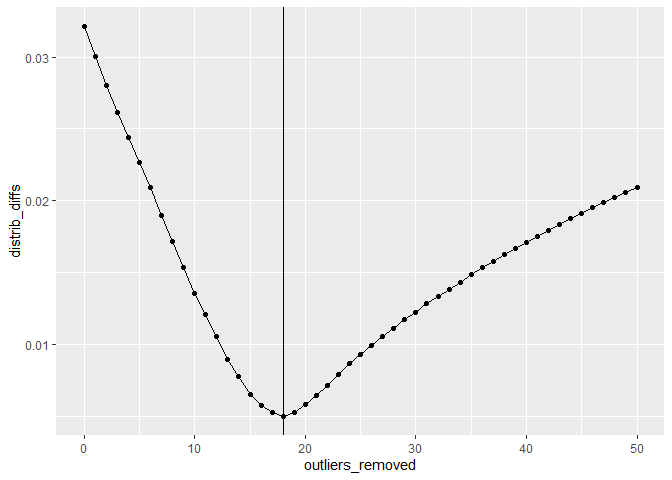
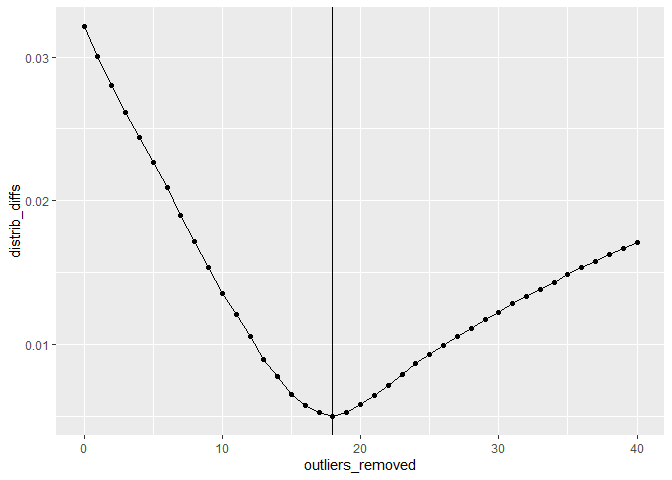
Increased error_sd

diff --git a/README.md b/README.md
@@ -51,16 +51,17 @@ ggplot(as.data.frame(noisy_gmm_p2g3),
 ### `idio_gmm`
 
 ``` r
-idio_gmm_p2g3 <- idio_gmm(noisy_gmm_p2g3[, 1:2], comp_num = 3, max_out = 100,
+idio_gmm_p2g3 <- idio_gmm(noisy_gmm_p2g3[, 1:2], comp_num = 3, max_out = 80,
                          print_interval = Inf)
 ```
 
 ``` r
-ggplot(cbind(outliers_removed = 0:100, as.data.frame(idio_gmm_p2g3)),
+ggplot(data.frame(outliers_removed = 0:80, 
+                  distrib_diffs = idio_gmm_p2g3$distrib_diffs),
        aes(x = outliers_removed, y = distrib_diffs)) +
   geom_line() +
   geom_point() +
-  geom_vline(aes(xintercept = outlier_num))
+  geom_vline(xintercept = idio_gmm_p2g3$outlier_num)
 ```
 
 ![](README_files/figure-gfm/unnamed-chunk-5-1.png)<!-- -->
@@ -84,7 +85,7 @@ n_vec <- c(1000)
 mu_list <- list(+1)
 sigma_list <- list(as.matrix(0.1))
 beta_list <- list(c(1, 1))
-error_sd_vec <- c(0.1)
+error_sd_vec <- c(0.5)
 
 noisy_mlr_p1 <- simulate_noisy_mlr(n_vec, mu_list, sigma_list, beta_list,
                                    error_sd_vec,
@@ -107,11 +108,11 @@ ggplot(as.data.frame(noisy_mlr_p1),
 
 ``` r
 idio_mlr_p1 <- idio_mlr(noisy_mlr_p1$covariates, noisy_mlr_p1$responses,
-                        max_out = 50, print_interval = Inf)
+                        max_out = 40, print_interval = Inf)
 ```
 
 ``` r
-ggplot(data.frame(outliers_removed = 0:50,
+ggplot(data.frame(outliers_removed = 0:40,
                   distrib_diffs = idio_mlr_p1$distrib_diffs,
                   outlier_num = idio_mlr_p1$outlier_num),
        aes(x = outliers_removed, y = distrib_diffs)) +
